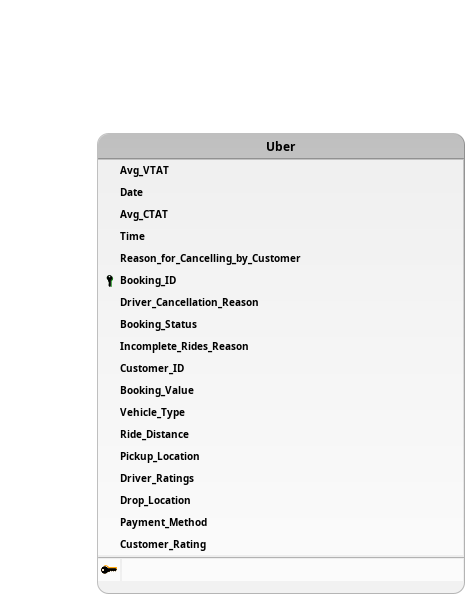
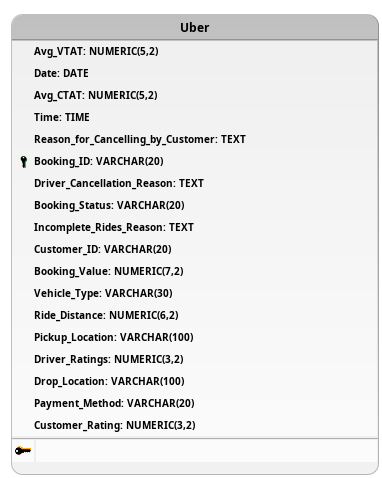
fix: ajustes finais

Changed region(s): [[0.0288, 0.0293, 1.0, 0.9958], [0.0288, 0.9079, 0.0864, 0.9958]]

diff --git a/src/etl/init_db.py b/src/etl/init_db.py
@@ -103,7 +103,7 @@ def run_etl():
     df_silver.drop_duplicates(subset=['Booking_ID'], keep='first', inplace=True)
     final_count = len(df_silver)
     if initial_count != final_count:
-        print(f"⚠  Removidas {initial_count - final_count} linhas duplicadas baseadas no Booking_ID.")
+        print(f"  Removidas {initial_count - final_count} linhas duplicadas baseadas no Booking_ID.")
 
     # Tratamento de valores nulos (NaN)
     df_silver['Incomplete_Rides_Reason'].fillna('Reason Unknown', inplace=True)

diff --git a/docs/Diagrama.md b/docs/Diagrama.md
@@ -6,20 +6,18 @@ Este documento apresenta a modelagem de dados desenvolvida para o projeto Uber R
 
 A modelagem tem como finalidade representar, de forma conceitual e lógica, as principais entidades, relacionamentos e atributos necessários para compor o banco de dados MySQL containerizado que servirá como base para o processo ETL (Raw → Silver → Gold).
 
-## 1. Modelo Entidade-Relacionamento (MER)
+## 1. MER
 
-O Modelo Entidade-Relacionamento (também representado como MREL) apresenta a estrutura conceitual dos dados, identificando os principais atributos e suas relações hierárquicas dentro da entidade central Uber.
+1. Entidade
 
-![Figura 1 – MER/MREL do Sistema Uber Ride Analytics](./assets/UBER_MREL.png)
+* Uber
 
-### Descrição:
+2. Atributos
 
-- A entidade Uber representa o registro principal de uma corrida.
-- Cada corrida é identificada de forma única pelo atributo Booking_ID.
-- A estrutura agrupa informações sobre o cliente, motorista, localização, tipo de veículo, avaliações, cancelamentos e métricas de tempo.
-- Essa representação hierárquica facilita o entendimento do relacionamento entre atributos e o fluxo de dados ao longo do processo analítico.
+    Uber(__Booking_ID__ ,Date , Time, Booking_Status, Customer_ID, Vehicle_Type, Pickup_Location, Drop_Location,Avg_VTAT, Avg_CTAT, Reason_for_cancelling_by_Customer, Driver_Cancellation_Reason, Incomplete_Rides_Reason, Booking_Value, Ride_Distance ,Driver_Ratings ,Customer_Rating , Payment_Method)
 
-## 2. Diagrama Entidade-Relacionamento Lógico (DER / DLD)
+
+## 2. DLD
 
 O Diagrama Lógico de Dados (DLD) representa o modelo físico preliminar da base de dados, com os campos e chaves primárias definidos. A figura abaixo mostra a tabela principal Uber, com todos os atributos que compõem o conjunto de dados extraído e tratado.
 
@@ -36,6 +34,17 @@ O Diagrama Lógico de Dados (DLD) representa o modelo físico preliminar da base
   - Status e cancelamentos (Booking_Status, Reason_for_Cancelling_by_Customer, Driver_Cancellation_Reason, Incomplete_Rides_Reason)
   - Informações financeiras (Booking_Value, Payment_Method)
   - Características do veículo (Vehicle_Type)
+
+## 3. DER
+
+![Figura 1 – MER/MREL do Sistema Uber Ride Analytics](./assets/UBER_MREL.png)
+
+### Descrição:
+
+- A entidade Uber representa o registro principal de uma corrida.
+- Cada corrida é identificada de forma única pelo atributo Booking_ID.
+- A estrutura agrupa informações sobre o cliente, motorista, localização, tipo de veículo, avaliações, cancelamentos e métricas de tempo.
+- Essa representação hierárquica facilita o entendimento do relacionamento entre atributos e o fluxo de dados ao longo do processo analítico.
 
 ## Dicionário de Dados
 
@@ -63,6 +72,7 @@ O dicionário de dados a seguir contém informações sobre cada um dos atributo
 | Payment_Method                      | Forma de pagamento utilizada                                             | VARCHAR(20)         |                       |
 
 
+
 ## Data Definition Language (DDL)
 
 O comando SQL abaixo cria o banco de dados Uber, baseando-se no MER, DER e dicionário de dados
@@ -88,3 +98,4 @@ CREATE TABLE IF NOT EXISTS Uber (
     Payment_Method VARCHAR(20)
 );
 ```
+
